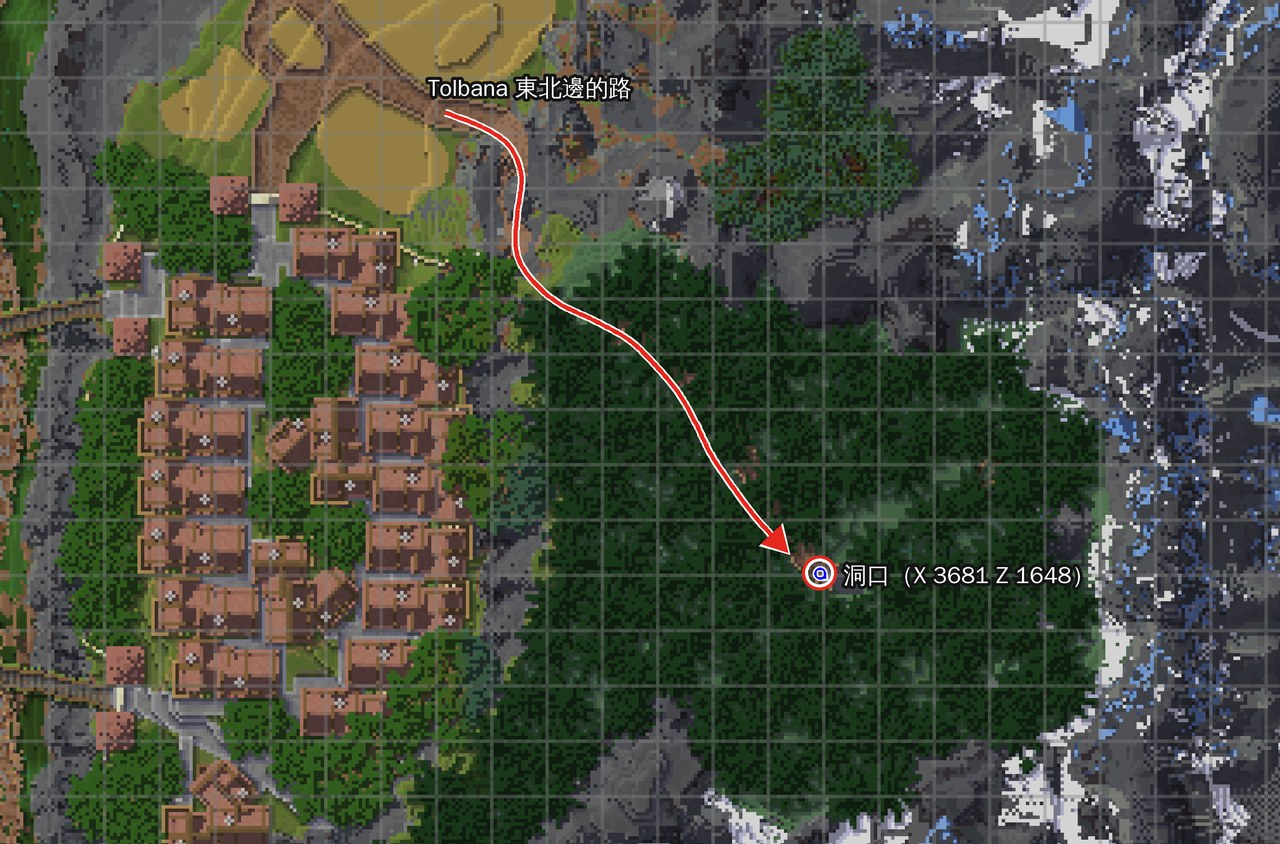
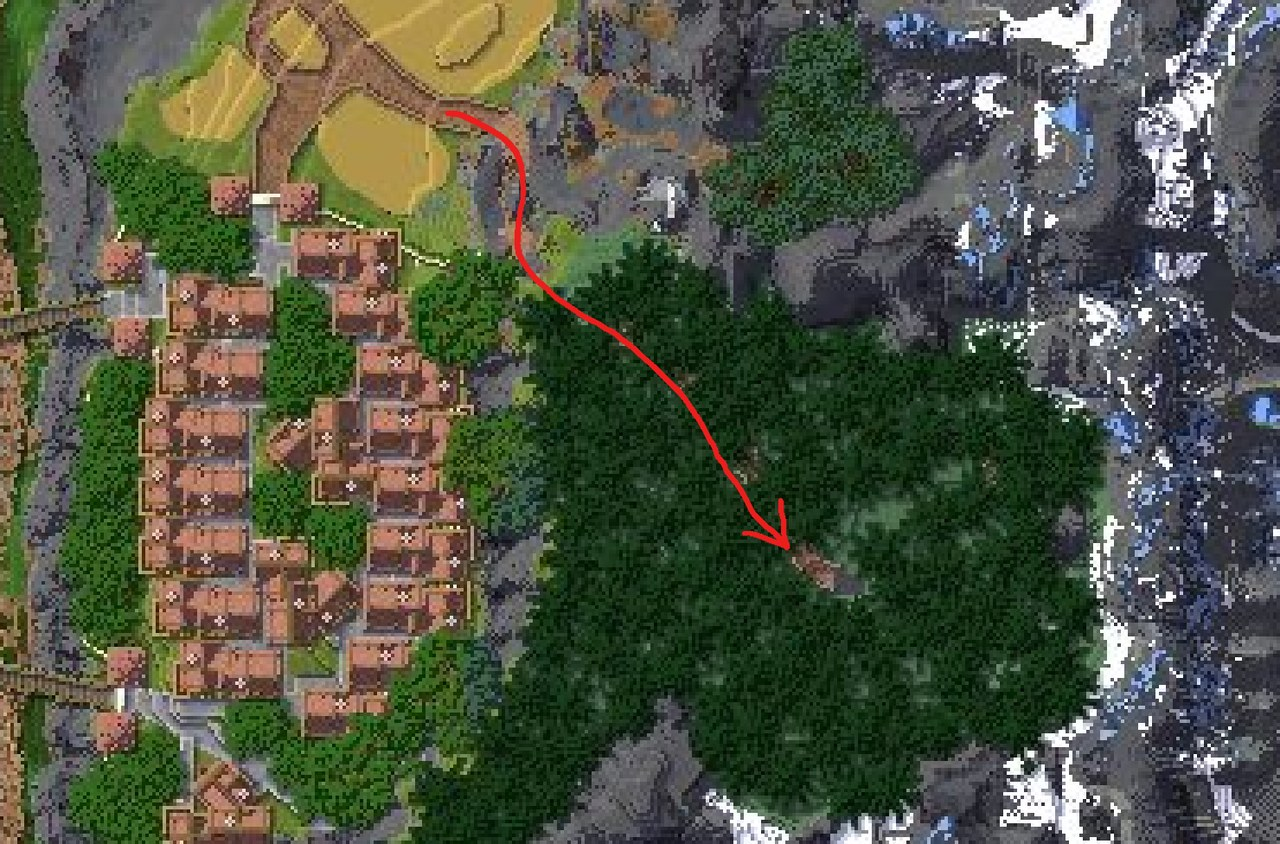
主線 32 路線圖：底圖換成合併後的探索地圖，保留手繪紅線、拿掉文字
Claude-Session: https://claude.ai/code/session_01TCxb7TWhtNUuHK8FFaNG7L

diff --git a/mainq.js b/mainq.js
@@ -78,7 +78,7 @@ window.SAO_MAINQ = {1: [
  {t:"Request an audience with King Harald", n:28, aka:"Request an Audience with King Harald", npc:"King Harald", d:"Tolbana 的水晶屬於 Harald 家族，沒有他們同意，誰都不能靠近。（遊戲裡 28 之後直接是 32，沒有 29～31。）",
   s:[["前往 Harald 的宮殿",3199,1510],["和 Harald 國王對話",3198,1524],["得知檔案裡有關於他的記載",3198,1524]]},
  {t:"The Trial of the Haralds", n:32, aka:"The Trials of the Heralds", npc:"—", d:"三位已故的國王守著水晶，到地底的墓裡去見他們。", en:{0:"Find the tomb of the ancestors",1:"Trial of Harald I（路標：Épreuve de Harald I）"},
-  img:{0:[["img/quests/32_route.jpg","路線：從 Tolbana 東北邊的路往上走，穿過森林到洞口（站長的 JourneyMap 截圖）"],["img/quests/32_cave.jpg","洞口：銅色平台上有往下的樓梯和一盞燈，沿著往下走"],["img/quests/32_tomb.jpg","走到底就是祖先之墓：長滿藤蔓的洞穴，中間有一顆石球"],["img/quests/32_hole.jpg","爬上石球，上面有一個洞，跳進去就到地底下的試煉場"]]},
+  img:{0:[["img/quests/32_route.jpg","路線：從 Tolbana 東北邊的路往上走，穿過森林到洞口（底圖是本站的探索地圖，紅線是站長畫的走法）"],["img/quests/32_cave.jpg","洞口：銅色平台上有往下的樓梯和一盞燈，沿著往下走"],["img/quests/32_tomb.jpg","走到底就是祖先之墓：長滿藤蔓的洞穴，中間有一顆石球"],["img/quests/32_hole.jpg","爬上石球，上面有一個洞，跳進去就到地底下的試煉場"]]},
   s:[["找到祖先之墓：從 Tolbana 東北邊沿著路走上去到洞口，往下走到底會看到墓（大石球）；爬上去有一個洞，跳進去到地底下才是試煉的地方",3681,1648],["Harald 的試煉 1：Harald I 會叫出一隻怪，站著不要動就好",3781,1673],["Harald 的試煉 2：脫掉防具和主手、副手",3741,1714],["Harald 的試煉 3：Harald III 會叫出一隻怪，站著不要動就好",3701,1667],["得到三個年份：−700、−620、−660",null,null],["回去找 Harald 國王",3198,1524]]},
  {t:"The Crystal of Tolbana", n:33, nEst:1, npc:"Mephisto",
   s:[["回去找 Mephisto",3260,1403],["在鍛造場附近的門和他會合",3239,1461],["跟著他走到門口",3216,1445],["下到水晶底下",3047,1208],["在 Kobold Tower 和 Mephisto 會合",3400,1080]]},

diff --git a/index.html b/index.html
@@ -2,7 +2,7 @@
 <html lang="zh-Hant">
 <head>
 <meta charset="utf-8">
-<meta name="sao-build" content="db73d8a32c">
+<meta name="sao-build" content="473ad0e1ea">
 <meta name="viewport" content="width=device-width, initial-scale=1, viewport-fit=cover">
 <meta name="description" content="阿爾戈的攻略本：SAO Minecraft 艾恩葛朗特（Aincrad）攻略，地圖、怪物、裝備、配方、任務、地下城、職業技能、世界王。">
 <style>:root{color-scheme:light;padding-top:env(safe-area-inset-top,0px);padding-bottom:env(safe-area-inset-bottom,0px)}body{margin:0;font:14px system-ui,-apple-system,"Segoe UI",sans-serif}img{max-width:100%}[hidden]{display:none!important}</style>
@@ -788,17 +788,17 @@ h3.sec .c{font-family:var(--f-mono);letter-spacing:0}
 <script src="data.js?v=33d643eb"></script>
 <script src="data23.js?v=bc83d65b"></script>
 <script src="bosses.js?v=41309c3c"></script>
-<script src="reports.js?v=f9564506"></script>
+<script src="reports.js?v=a17dd6f0"></script>
 <script src="hints.js?v=fcf000d6"></script>
 <script src="codex.js?v=48141603"></script>
-<script src="mainq.js?v=fc3555bb"></script>
+<script src="mainq.js?v=a1e4cc24"></script>
 <script src="equip.js?v=4e53bcf2"></script>
 <script src="props.js?v=0e9f806f"></script>
 <script src="gameinfo.js?v=7eb6cf27"></script>
 <script src="npcs.js?v=3a3bf3bc"></script>
 <script src="changelog.js?v=4e36b928"></script>
 <script src="recipes.js?v=747aafd1"></script>
-<script src="jmmeta.js?v=d55fc3c3"></script>
+<script src="jmmeta.js?v=2a6f9fcd"></script>
 <script src="formcfg.js?v=97ab18f0"></script>
 <script src="classes.js?v=648ce8f1"></script>
 <script src="recicons.js?v=9e931339"></script>

diff --git a/CLAUDE.md b/CLAUDE.md
@@ -127,7 +127,7 @@
 - **任務獎勵連結**：`rewardGo` 把獎勵物品名稱（可帶數量，例如「24 Minerai de Fer」）對到本站物品、官方裝備或道具；任務面板裡的獎勵（`rewardText(qq,true)`）可以點，卡片上不加連結。
 - **浮動地圖的「目前這一點」**：`showPoints(…,sel)` 會把點的那一個座標畫成紅色加外圈（`RW.sel`），視窗標題寫「第 N 點（共 M 點）」；面板裡的重生點座標前面有同樣的編號（`.rnum`）。
 - **路線／地點小地圖的編號**：步驟的第 5 欄（`step[4]`）可以指定標籤；同一個來源的多個點（例如首領的 4 個重生點）都用同一個編號，同一位置的相同標籤只畫一次。
-- **主線步驟的遊戲原文**（2026-11-03 使用者選 B）：`mainq.js` 任務可加 `en:{步驟索引:"英文原文"}`（取自玩家截圖的任務追蹤），任務面板在該步座標後面顯示「遊戲原文：…」，搜尋也比對（`mqHit`）。目前只有主線 20 The Geldorak Mine 的第 5、6 步。**步驟圖片**（2026-11-05，使用者「這個要放進任務32」）：`img:{步驟索引:[[路徑, 說明]]}`，圖片放 `img/quests/`（1280px JPEG），面板在步驟下面顯示縮圖、點了開大圖；`aka` 是舊任務名（搜尋、任務回報比對都認）。主線 32 The Trial of the Haralds（任務追蹤截圖確認，原本是推算的 29 The Trials of the Heralds）第 0 步有 4 張（路線圖（使用者的 JourneyMap 截圖當底（使用者 2026-11-05：比本站探索地圖重裁的好看，東邊本站還沒探索），手畫紅線用 inpaint 擦掉，照同樣路線重畫平滑紅線、箭頭、洞口圈和標籤；腳本 scratchpad `jmdraw2.py`）、洞口、墓的石球、跳下去的洞；使用者：全部屬於 Find the tomb of the ancestors，試煉在洞下面的地底），試煉 1／3 站著不要動、試煉 2 脫掉防具和主副手；主線 28 Request an audience with King Harald 照任務日誌確認（使用者 2026-11-05：遊戲裡 28 直接跳 32，沒有 29～31），Crystal／Floor 2 推算改 33／34。第 6 步（額外：稀有素材交給 Hanaka 的商人）的座標 X 1564 Z 3428 是推測（第 8 段村長的商人 The Trader，wiki 主線表「introduces his trader」；不是 Hanaka - Loot Buyer），使用者 2026-11-03 選先標，遊戲確認後拿掉「推測」字樣。
+- **主線步驟的遊戲原文**（2026-11-03 使用者選 B）：`mainq.js` 任務可加 `en:{步驟索引:"英文原文"}`（取自玩家截圖的任務追蹤），任務面板在該步座標後面顯示「遊戲原文：…」，搜尋也比對（`mqHit`）。目前只有主線 20 The Geldorak Mine 的第 5、6 步。**步驟圖片**（2026-11-05，使用者「這個要放進任務32」）：`img:{步驟索引:[[路徑, 說明]]}`，圖片放 `img/quests/`（1280px JPEG），面板在步驟下面顯示縮圖、點了開大圖；`aka` 是舊任務名（搜尋、任務回報比對都認）。主線 32 The Trial of the Haralds（任務追蹤截圖確認，原本是推算的 29 The Trials of the Heralds）第 0 步有 4 張（路線圖（使用者 2026-11-05：用 JourneyMap、保留手繪紅線、不要文字。站長先用協作區上傳探索地圖（R0005，補上東邊），再把站長截圖用 SIFT 對到 L3 切片（比例 0.25 格／px，洞口 X 3679 Z 1647），只把手繪紅線的像素轉到 L3 裁切（X 3442～3812、Z 1482～1726，放大 4 倍）上；沒有標籤和圈；腳本 scratchpad `jmroute.py`／`jmdraw3.py`）、洞口、墓的石球、跳下去的洞；使用者：全部屬於 Find the tomb of the ancestors，試煉在洞下面的地底），試煉 1／3 站著不要動、試煉 2 脫掉防具和主副手；主線 28 Request an audience with King Harald 照任務日誌確認（使用者 2026-11-05：遊戲裡 28 直接跳 32，沒有 29～31），Crystal／Floor 2 推算改 33／34。第 6 步（額外：稀有素材交給 Hanaka 的商人）的座標 X 1564 Z 3428 是推測（第 8 段村長的商人 The Trader，wiki 主線表「introduces his trader」；不是 Hanaka - Loot Buyer），使用者 2026-11-03 選先標，遊戲確認後拿掉「推測」字樣。
 - **搜尋時顯示符合的 NPC**（2026-11-03 使用者選 C）：`npcVisible` 在名字或類別（中文、英文 key）符合搜尋時，就算 NPC 篩選關著也畫出來並亮起（`npcHit`）；符合的集合改變時 `filterMap` 重畫地圖和清單（`npcSearchKey`）。
 - **路線圖的點合併**（2026-11-03 使用者：點擠在一起）：`routeMini` 和浮動路線視窗 `rwRender` 用 `clusterPts` 把畫面上距離小於標記 2.2 倍半徑的點合成一個標記，連號寫成「1–4」（`numLab`）；`g[data-xz]` 是空白分隔的座標清單，點步驟座標用 `~=` 找標記。浮動視窗放大後會分開。路線圖也畫畫面範圍內的傳送點（橘圓點）和地標（橘菱形）加名稱當參考（`refMarks`，`g.refm`，不能點；使用者 2026-11-03）。小地圖範圍 > 500 地圖單位時底圖一律用 wiki 地圖（探索地圖縮小後未探索區太暗、像素塊明顯，使用者 2026-11-03）。
 - **地圖搜尋**（2026-11-03 使用者：有輸入搜尋時先關閉其他篩選）：搜尋有字時**篩選暫時不套用**（`SRCH_ALL`，`catOn` 一律 true；renderMap／renderZoneList 全部畫出來），`filterMap` 把不符合的城鎮、地點、怪物區框線、首領重生點、NPC 加 `.shide` 藏起來，只留符合的；清掉搜尋就回到原本的篩選（`npcSearchKey` 只記有沒有在搜尋）。提示條「正在搜尋「…」：地圖上只顯示符合的 N 個位置（篩選暫時不套用）」和「清除搜尋」（地圖上方，手機在下方）。
